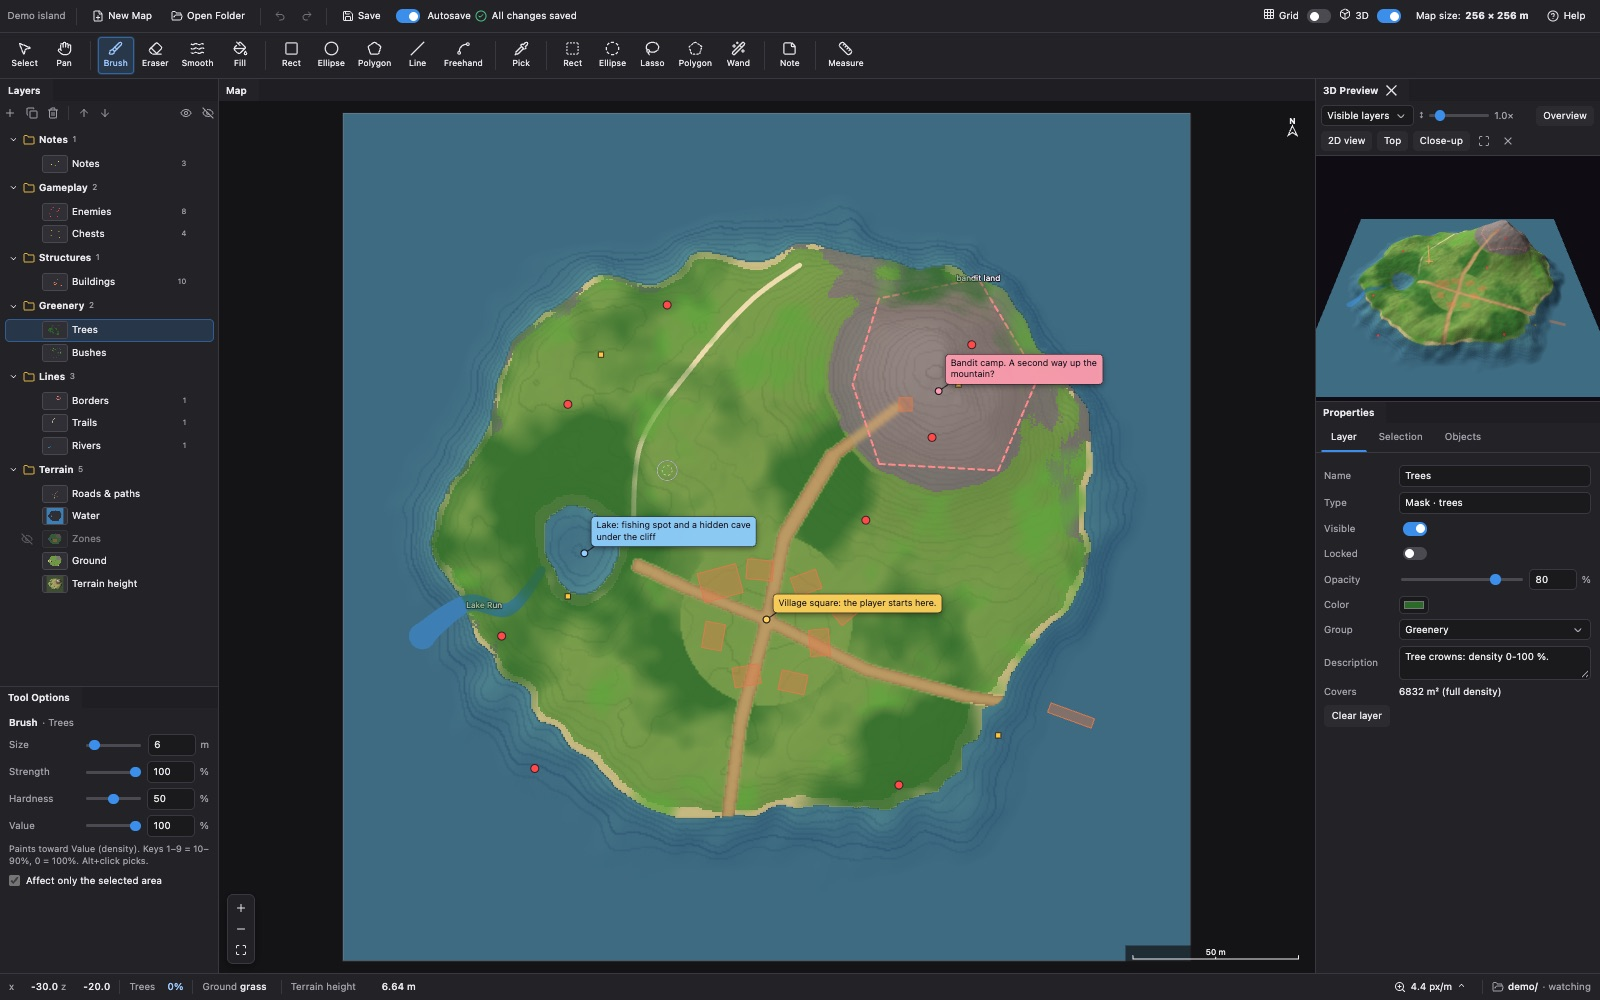
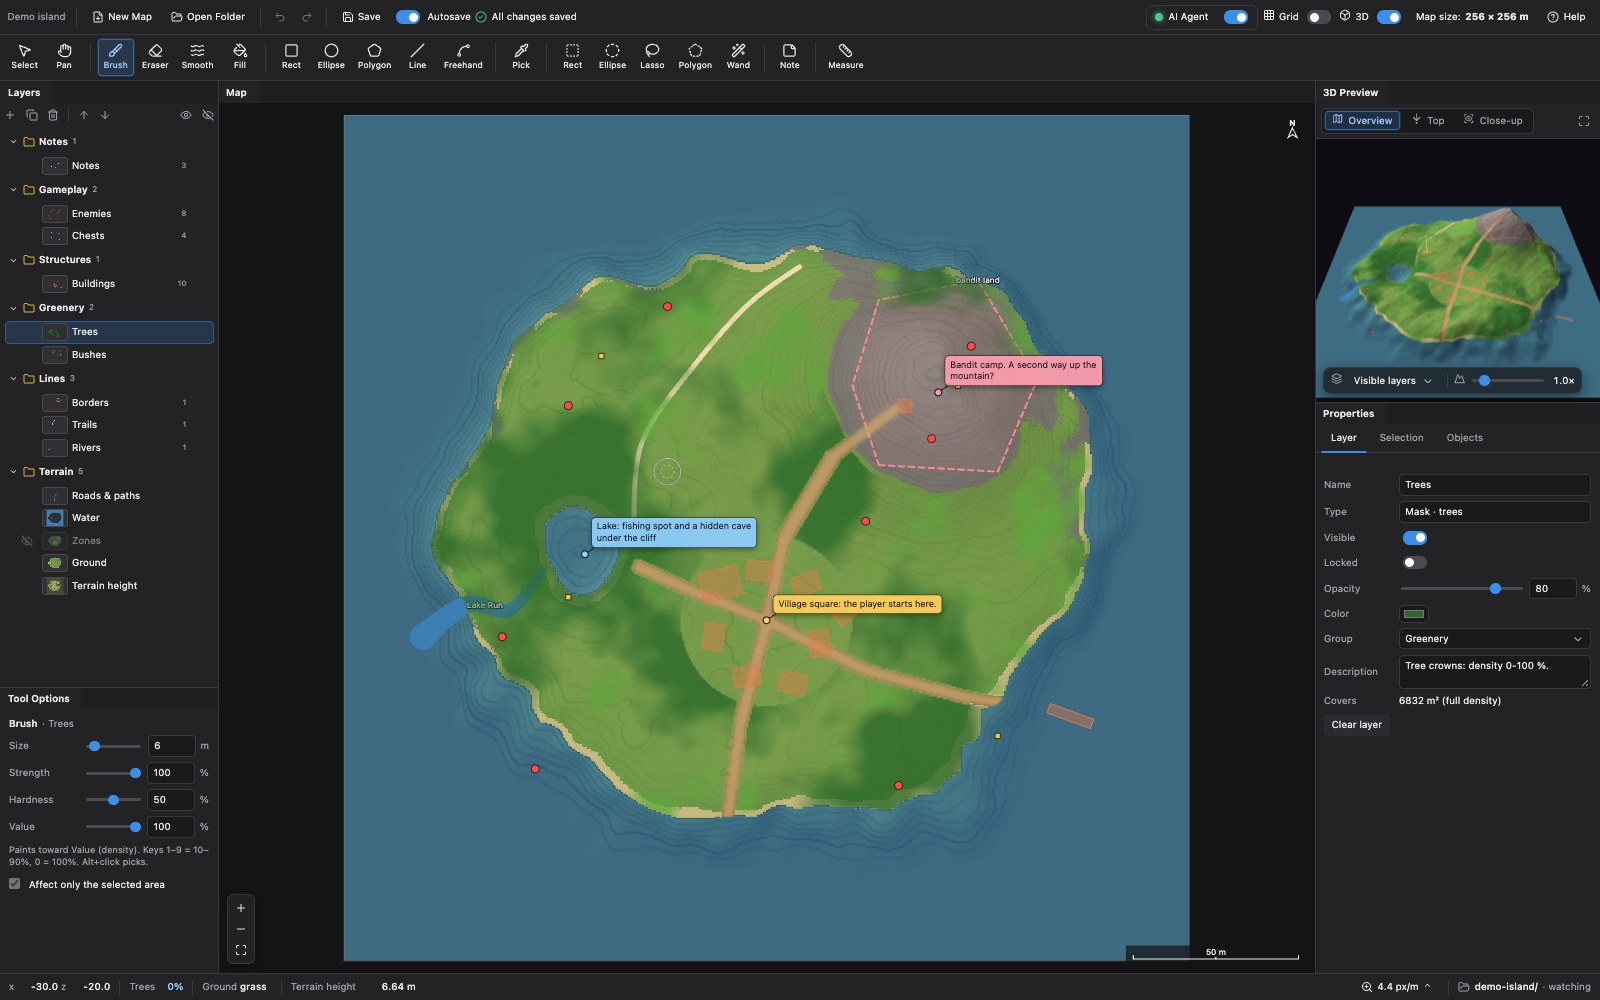
3D preview panel: a segmented camera control, the ground and height over the view, no 2D-view or close buttons; new README screenshots
- the camera presets Overview, Top, Close-up (with Lucide icons map, arrow-down-to-dot, scan-eye) are one segmented
  control; the preset in use is highlighted until the camera is moved by hand; icons only in a narrow panel
- what covers the ground and the height scale (mountain icon, tabular value) float in a bar over the view
- removed: the 2D-view preset, the close button in the panel and on its tab (the 3D switch in the header, P, and the
  tab's menu close it)
- AI proposals: the dashed outline encloses the footprints and ends of their objects, not only their centers
- tests/screenshots.mjs remakes docs/screenshot.jpg and the new docs/screenshot-agent.jpg (an agent's change under
  review) from the demo island; the READMEs show both

diff --git a/style.css b/style.css
@@ -241,17 +241,47 @@ a { color: #9cc8ff; }
 .obj-row.head:hover { background: none; }
 
 /* 3D */
-#view3d { position: relative; width: 100%; height: 100%; display: flex; flex-direction: column; background: #141416; }
+#view3d { position: relative; width: 100%; height: 100%; display: flex; flex-direction: column; background: #121214; }
 #view3d .v3-head {
-  display: flex; flex-wrap: wrap; align-items: center; gap: 4.5px; padding: 3.75px 6px; background: var(--panel);
-  border-bottom: 1px solid var(--line);
+  display: flex; align-items: center; gap: 6px; padding: 4.5px 6px; background: var(--panel); border-bottom: 1px solid var(--line);
 }
-#view3d .v3-head button:not(.ibtn) { padding: 2.25px 6px; }
-#view3d .v3-head .check { display: flex; align-items: center; gap: 3px; color: var(--muted); }
-#view3d .v3-head input[type=range] { width: 60px; }
-#view3d canvas { flex: 1; min-height: 0; width: 100%; display: block; cursor: grab; touch-action: none; }
+/* the camera presets: one segmented control */
+#view3d .v3-cams {
+  display: inline-flex; gap: 1.5px; padding: 1.5px; background: var(--field); border: 1px solid var(--line); border-radius: 6px; min-width: 0;
+}
+#view3d .v3-cams button {
+  display: inline-flex; align-items: center; gap: 4.5px; padding: 2.25px 7.5px; border-radius: 4.5px; background: none;
+  color: var(--muted); white-space: nowrap; transition: background 0.12s, color 0.12s;
+}
+#view3d .v3-cams button:hover { background: var(--hover); color: var(--text); }
+#view3d .v3-cams button.on { background: var(--accent-soft); color: #9cc8ff; box-shadow: inset 0 0 0 1px rgba(59, 142, 234, 0.55); }
+#view3d .v3-cams .icon svg { width: 11.25px; height: 11.25px; }
 #view3d .v3-note { padding: 3px 6px; font-size: 8.25px; color: #f0b45e; background: #26221c; border-bottom: 1px solid var(--line); }
+#view3d .v3-stage { position: relative; flex: 1; min-height: 0; overflow: hidden; }
+#view3d canvas { position: absolute; inset: 0; width: 100%; height: 100%; display: block; cursor: grab; touch-action: none; }
+#view3d canvas:active { cursor: grabbing; }
 #view3d .v3-msg { position: absolute; left: 50%; top: 50%; transform: translate(-50%, -50%); color: var(--muted); pointer-events: none; }
+/* what covers the ground and the height scale: a floating bar over the view */
+#view3d .v3-bar {
+  position: absolute; left: 7.5px; bottom: 7.5px; max-width: calc(100% - 15px); box-sizing: border-box;
+  display: flex; align-items: center; gap: 6px; padding: 3px 6px 3px 7.5px; border-radius: 7.5px;
+  background: rgba(28, 28, 32, 0.8); border: 1px solid rgba(255, 255, 255, 0.08); box-shadow: 0 4px 14px rgba(0, 0, 0, 0.45);
+  backdrop-filter: blur(8px); -webkit-backdrop-filter: blur(8px);
+}
+#view3d .v3-bar label { display: flex; align-items: center; gap: 4.5px; color: var(--muted); margin: 0; min-width: 0; }
+#view3d .v3-bar .icon svg { width: 11.25px; height: 11.25px; }
+#view3d .v3-bar select {
+  background-color: transparent; border-color: transparent; padding-top: 1.5px; padding-bottom: 1.5px; color: var(--text); min-width: 0;
+}
+#view3d .v3-bar select:hover { background-color: rgba(255, 255, 255, 0.06); }
+#view3d .v3-bar input[type=range] { width: 72px; }
+#view3d .v3-exag-v { min-width: 24px; text-align: right; color: var(--text); font-variant-numeric: tabular-nums; }
+#view3d .v3-sep { width: 1px; align-self: stretch; margin: 2.25px 0; background: rgba(255, 255, 255, 0.1); }
+/* narrow panels: icons only */
+@container v3 (max-width: 240px) { #view3d .v3-cams .label { display: none; } #view3d .v3-cams button { padding: 2.25px 6px; } }
+#view3d { container: v3 / inline-size; }
+/* the dock tabs have no close button: the 3D preview closes with the 3D switch in the header (P) or the tab's menu */
+#dock .dv-default-tab .dv-default-tab-action { display: none; }
 #map-dlg .presets { display: flex; flex-wrap: wrap; gap: 3.75px; margin: 4.5px 0 7.5px; }
 #map-dlg .presets button { padding: 3px 6.75px; }
 #map-dlg .info { color: var(--text); }

diff --git a/index.html b/index.html
@@ -74,22 +74,31 @@
   <section id="props" class="panel-body"></section>
   <div id="view3d">
     <div class="v3-head">
-      <select class="v3-tex" title="What covers the ground">
-        <option value="map">Visible layers</option>
-        <option value="height">Height colors</option>
-      </select>
-      <label class="check" title="Height scale">↕ <input type="range" class="v3-exag" min="0.5" max="5" step="0.1" value="1"> <span class="v3-exag-v">1.0×</span></label>
+      <div class="v3-cams" role="group" aria-label="Camera">
+        <button type="button" data-preset="overview" title="The whole map (or double-click the view)"><span data-icon="map"></span><span class="label">Overview</span></button>
+        <button type="button" data-preset="top" title="Straight from above"><span data-icon="arrow-down-to-dot"></span><span class="label">Top</span></button>
+        <button type="button" data-preset="close" title="A close view at the middle of the 2D view: 45°, 20 m away (or as much in the unit of the map), FOV 40°"><span data-icon="scan-eye"></span><span class="label">Close-up</span></button>
+      </div>
       <span class="spacer"></span>
-      <button data-preset="overview" title="The whole map (double-click)">Overview</button>
-      <button data-preset="view" title="What the 2D view shows">2D view</button>
-      <button data-preset="top" title="Straight from above">Top</button>
-      <button data-preset="close" title="A close view (45°, 20 m away or the same in the unit of the map, FOV 40°) at the middle of the 2D view">Close-up</button>
-      <button class="v3-max ibtn" data-icon="maximize" title="Maximize / restore the panel"></button>
-      <button class="v3-close ibtn" data-icon="x" title="Close (P)"></button>
+      <button type="button" class="v3-max ibtn" data-icon="maximize" title="Maximize / restore the panel"></button>
     </div>
     <div class="v3-note" hidden></div>
-    <canvas></canvas>
-    <div class="v3-msg"></div>
+    <div class="v3-stage">
+      <canvas title="Drag: turn · right-drag or Shift+drag: move · wheel: zoom · double-click: the whole map"></canvas>
+      <div class="v3-msg"></div>
+      <div class="v3-bar">
+        <label class="v3-ground" title="What covers the ground"><span data-icon="layers"></span>
+          <select class="v3-tex">
+            <option value="map">Visible layers</option>
+            <option value="height">Height colors</option>
+          </select>
+        </label>
+        <span class="v3-sep"></span>
+        <label class="v3-height" title="Height scale (exaggerates the terrain)"><span data-icon="mountain"></span>
+          <input type="range" class="v3-exag" min="0.5" max="5" step="0.1" value="1"><span class="v3-exag-v">1.0×</span>
+        </label>
+      </div>
+    </div>
   </div>
 </div>
 <footer id="statusbar">

diff --git a/js/view3d.js b/js/view3d.js
@@ -344,11 +344,11 @@ void main() { o = u_color; }`;
     /** Units of the map per meter (1 for meters, 100 for centimeters...). */
     k() { return (this.app.unitK && this.app.unitK()) || 1; }
 
-    /** 'overview' (the whole map), 'top' (straight down), 'close' (a close view at the middle of the 2D view), 'view' (the 2D view). */
+    /** 'overview' (the whole map), 'top' (straight down), 'close' (a close view at the middle of the 2D view). */
     preset(name) {
       const world = this.app.world();
       if (!world) return;
-      const c = this.cam, [vx, vz, vw] = this.app.viewCenter(), big = Math.max(world.width, world.height);
+      const c = this.cam, [vx, vz] = this.app.viewCenter(), big = Math.max(world.width, world.height);
       const mid = [world.x0 + world.width / 2, 0, world.z0 + world.height / 2];
       c.yaw = 0;
       c.fov = CLOSE.fov;
@@ -357,13 +357,19 @@ void main() { o = u_color; }`;
       } else if (name === 'top') {
         c.pitch = 89.5 * Math.PI / 180; c.dist = big / (2 * Math.tan(c.fov * Math.PI / 360)) * 1.05;
         c.target = mid;
-      } else if (name === 'view') {
-        c.pitch = 0.75; c.dist = Math.min(vw, big) * 1.2; c.target = [vx, 0, vz];
       } else {
         c.pitch = 0.72; c.dist = big * 1.35; c.target = mid;
       }
       c.target[1] = name === 'overview' || name === 'top' ? 0 : this.groundAt(c.target[0], c.target[2]);
+      this.camMoved(name === 'close' ? 'close' : name === 'top' ? 'top' : 'overview');
       this.requestDraw();
+    }
+
+    /** The camera is at a preset (its name) or was moved by hand (null): the buttons show it. */
+    camMoved(name = null) {
+      if (this.camName === name) return;
+      this.camName = name;
+      this.onCamera?.(name);
     }
 
     eye() {
@@ -384,6 +390,7 @@ void main() { o = u_color; }`;
         if (!drag) return;
         const dx = e.clientX - drag.x, dy = e.clientY - drag.y, c = this.cam;
         drag.x = e.clientX; drag.y = e.clientY;
+        if (dx || dy) this.camMoved();
         if (drag.pan) {
           const k = c.dist * Math.tan(c.fov * Math.PI / 360) * 2 / Math.max(cv.clientHeight, 1);
           const right = [Math.cos(c.yaw), -Math.sin(c.yaw)], fwd = [-Math.sin(c.yaw), -Math.cos(c.yaw)];
@@ -405,6 +412,7 @@ void main() { o = u_color; }`;
         this.dragging = true;
         this.wheelTimer = setTimeout(() => { this.dragging = false; this.requestDraw(); }, 200);
         const world = this.app.world(), dy = e.deltaMode === 1 ? e.deltaY * 33 : e.deltaY;
+        this.camMoved();
         this.cam.dist = Math.max(3 * this.k(), Math.min((world ? Math.max(world.width, world.height) : 500) * 4, this.cam.dist * Math.exp(dy * (e.ctrlKey ? 0.01 : 0.0015))));
         this.requestDraw();
       }, { passive: false });

diff --git a/vendor/lucide-icons.js b/vendor/lucide-icons.js
@@ -79,6 +79,12 @@
     "redo-2": "<path d=\"m15 14 5-5-5-5\" /> <path d=\"M20 9H9.5A5.5 5.5 0 0 0 4 14.5A5.5 5.5 0 0 0 9.5 20H13\" />",
     "save": "<path d=\"M15.2 3a2 2 0 0 1 1.4.6l3.8 3.8a2 2 0 0 1 .6 1.4V19a2 2 0 0 1-2 2H5a2 2 0 0 1-2-2V5a2 2 0 0 1 2-2z\" /> <path d=\"M17 21v-7a1 1 0 0 0-1-1H8a1 1 0 0 0-1 1v7\" /> <path d=\"M7 3v4a1 1 0 0 0 1 1h7\" />",
     "box": "<path d=\"M21 8a2 2 0 0 0-1-1.73l-7-4a2 2 0 0 0-2 0l-7 4A2 2 0 0 0 3 8v8a2 2 0 0 0 1 1.73l7 4a2 2 0 0 0 2 0l7-4A2 2 0 0 0 21 16Z\" /> <path d=\"m3.3 7 8.7 5 8.7-5\" /> <path d=\"M12 22V12\" />",
+    "mountain": "<path d=\"m8 3 4 8 5-5 5 15H2L8 3z\" />",
+    "map": "<path d=\"M14.106 5.553a2 2 0 0 0 1.788 0l3.659-1.83A1 1 0 0 1 21 4.619v12.764a1 1 0 0 1-.553.894l-4.553 2.277a2 2 0 0 1-1.788 0l-4.212-2.106a2 2 0 0 0-1.788 0l-3.659 1.83A1 1 0 0 1 3 19.381V6.618a1 1 0 0 1 .553-.894l4.553-2.277a2 2 0 0 1 1.788 0z\" /> <path d=\"M15 5.764v15\" /> <path d=\"M9 3.236v15\" />",
+    "arrow-down-to-dot": "<path d=\"M12 2v14\" /> <path d=\"m19 9-7 7-7-7\" /> <circle cx=\"12\" cy=\"21\" r=\"1\" />",
+    "scan-eye": "<path d=\"M3 7V5a2 2 0 0 1 2-2h2\" /> <path d=\"M17 3h2a2 2 0 0 1 2 2v2\" /> <path d=\"M21 17v2a2 2 0 0 1-2 2h-2\" /> <path d=\"M7 21H5a2 2 0 0 1-2-2v-2\" /> <circle cx=\"12\" cy=\"12\" r=\"1\" /> <path d=\"M18.944 12.33a1 1 0 0 0 0-.66 7.5 7.5 0 0 0-13.888 0 1 1 0 0 0 0 .66 7.5 7.5 0 0 0 13.888 0\" />",
+    "minimize": "<path d=\"M8 3v3a2 2 0 0 1-2 2H3\" /> <path d=\"M21 8h-3a2 2 0 0 1-2-2V3\" /> <path d=\"M3 16h3a2 2 0 0 1 2 2v3\" /> <path d=\"M16 21v-3a2 2 0 0 1 2-2h3\" />",
+    "rotate-3d": "<path d=\"m15.194 13.707 3.814 1.86-1.86 3.814\" /> <path d=\"M16.47214 7.52786 A 5 10 0 1 0 13 21.79796\" /> <path d=\"M21.79796 11 A 10 5 0 1 0 19 15.57071\" />",
     "maximize": "<path d=\"M8 3H5a2 2 0 0 0-2 2v3\" /> <path d=\"M21 8V5a2 2 0 0 0-2-2h-3\" /> <path d=\"M3 16v3a2 2 0 0 0 2 2h3\" /> <path d=\"M16 21h3a2 2 0 0 0 2-2v-3\" />",
     "zoom-in": "<circle cx=\"11\" cy=\"11\" r=\"8\" /> <line x1=\"21\" x2=\"16.65\" y1=\"21\" y2=\"16.65\" /> <line x1=\"11\" x2=\"11\" y1=\"8\" y2=\"14\" /> <line x1=\"8\" x2=\"14\" y1=\"11\" y2=\"11\" />",
     "circle-help": "<circle cx=\"12\" cy=\"12\" r=\"10\" /> <path d=\"M9.09 9a3 3 0 0 1 5.83 1c0 2-3 3-3 3\" /> <path d=\"M12 17h.01\" />",

diff --git a/js/app.js b/js/app.js
@@ -4083,9 +4083,10 @@ const view3d = new ME.View3D($('#view3d'), {
   const p3 = $('#view3d'), exag = p3.querySelector('.v3-exag');
   view3d.onToggle = on => { $('#btn3d').checked = on; };
   $('#btn3d').onchange = () => { if ($('#btn3d').checked) show3d(); else hide3d(); };
-  p3.querySelector('.v3-close').onclick = () => hide3d();
   p3.querySelector('.v3-max').onclick = () => { dock.toggleMaximize('view3d'); view3d.requestDraw(); };
-  p3.querySelectorAll('[data-preset]').forEach(b => { b.onclick = () => view3d.preset(b.dataset.preset); });
+  const cams = p3.querySelectorAll('[data-preset]');
+  cams.forEach(b => { b.onclick = () => view3d.preset(b.dataset.preset); });
+  view3d.onCamera = name => cams.forEach(b => b.classList.toggle('on', b.dataset.preset === name)); // until the camera moves
   p3.querySelector('.v3-tex').onchange = e => { view3d.texMode = e.target.value; view3d.seen.map = null; view3d.tick(); };
   exag.oninput = () => {
     view3d.setExag(+exag.value);

diff --git a/js/agent-write.js b/js/agent-write.js
@@ -76,8 +76,10 @@ function cleanItems(g, L, list) {
   });
 }
 
+/** The box around items: path points, footprint corners, both ends of links, else the position. */
 const boxOf = items => {
-  const pts = items.flatMap(it => it.points || [[it.x, it.z]]);
+  const k = G().k;
+  const pts = items.flatMap(it => it.points || (it.w != null ? ME.footprintCorners(it, k) : [[it.x, it.z], ...(it.a && it.b ? [it.a, it.b] : [])]));
   const xs = pts.map(p => p[0]), zs = pts.map(p => p[1]);
   return [Math.min(...xs), Math.min(...zs), Math.max(...xs), Math.max(...zs)];
 };

diff --git a/README.md b/README.md
@@ -106,6 +106,9 @@ straight across the river with both ends on land (`find_crossing` finds where). 
 disk, for work with scripts and other tools; `open_map` and `create_map` open a map by its path or make a new one —
 the server opens the app in the browser if needed, and the app reads and writes that folder through the server.
 
+![An AI agent's change waiting for review on the map: a bridge across the river and a hut, outlined, with the agent's
+title, explanation and self-check on a card, and Accept, Change… and Reject](docs/screenshot-agent.jpg)
+
 1. Add the server to your agent once, e.g. `claude mcp add --scope user game-world-painter -- npx -y game-world-painter-mcp`
    (`npx -y game-world-painter-mcp setup` prints the command for each agent; details in [mcp/README.md](mcp/README.md)).
 2. In the app, turn on **AI Agent** in the header: the LED turns green when an agent is connected, and its dialog

diff --git a/CHANGELOG.md b/CHANGELOG.md
@@ -1,5 +1,14 @@
 # Changelog
 
+## Unreleased
+
+- The 3D preview panel looks cleaner: the camera presets (Overview, Top, Close-up, with icons) are one segmented
+  control that shows which one is in use until the camera moves; what covers the ground and the height scale float
+  over the view; a narrow panel shows icons only. The "2D view" preset and the panel's close buttons are gone — the 3D
+  switch in the header (P) opens and closes it.
+- The outline of an AI proposal on the map encloses the footprints of its objects (not only their centers).
+- New screenshots in the README, made by `node tests/screenshots.mjs`.
+
 ## 0.2.2 — 2026-10-09
 
 - Long sessions with an AI agent no longer grow memory: the Activity keeps the latest 1000 calls and draws them 200

diff --git a/CONTRIBUTING.md b/CONTRIBUTING.md
@@ -18,6 +18,12 @@ Thanks for helping! Issues and pull requests are welcome.
   together with the code, and keep old files readable.
 - **The demo**: `python3 examples/make_demo.py` (numpy, Pillow) rebuilds `examples/demo-island`.
 
+## Screenshots
+
+`node tests/screenshots.mjs` remakes the README's screenshots (`docs/screenshot.jpg`, `docs/screenshot-agent.jpg`)
+from the demo island in headless Chrome, with an AI agent connected through the MCP server. Run it after visible
+changes to the interface.
+
 ## Releasing
 
 1. Write the notes in `CHANGELOG.md` under `## <version> — <date>`, and set the same version in `mcp/package.json`.

diff --git a/mcp/README.md b/mcp/README.md
@@ -13,6 +13,8 @@ GameWorld Painter ── results: HTTP POST ──▶ MCP server
 GameWorld Painter ── autosave ──▶ the project folder (PNG and JSON)
 ```
 
+![An AI agent's change waiting for review in GameWorld Painter: a bridge and a hut outlined on the map, the agent's text and self-check on a card](https://raw.githubusercontent.com/aleserb/game-world-painter/main/docs/screenshot-agent.jpg)
+
 The agent starts the server; the app (with **AI Agent** turned on in its header) connects to it. The tools run in the
 page, on the open map: what the agent changes appears at once and is one step of the app's undo.
 
